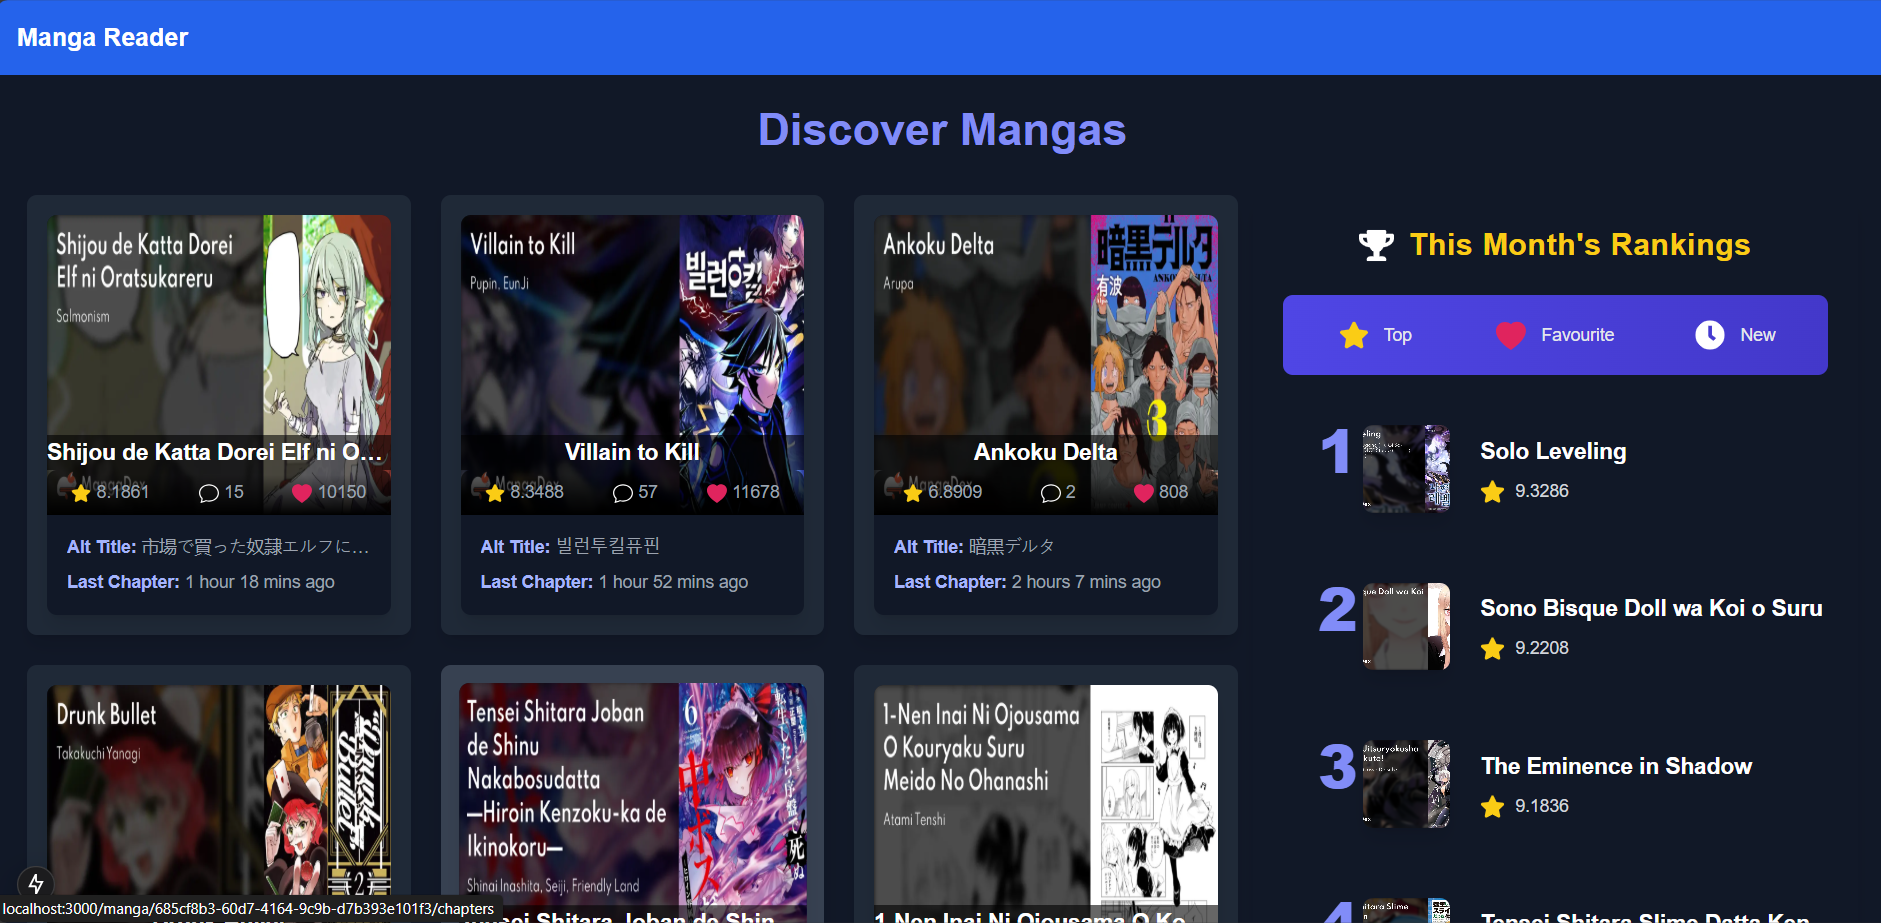
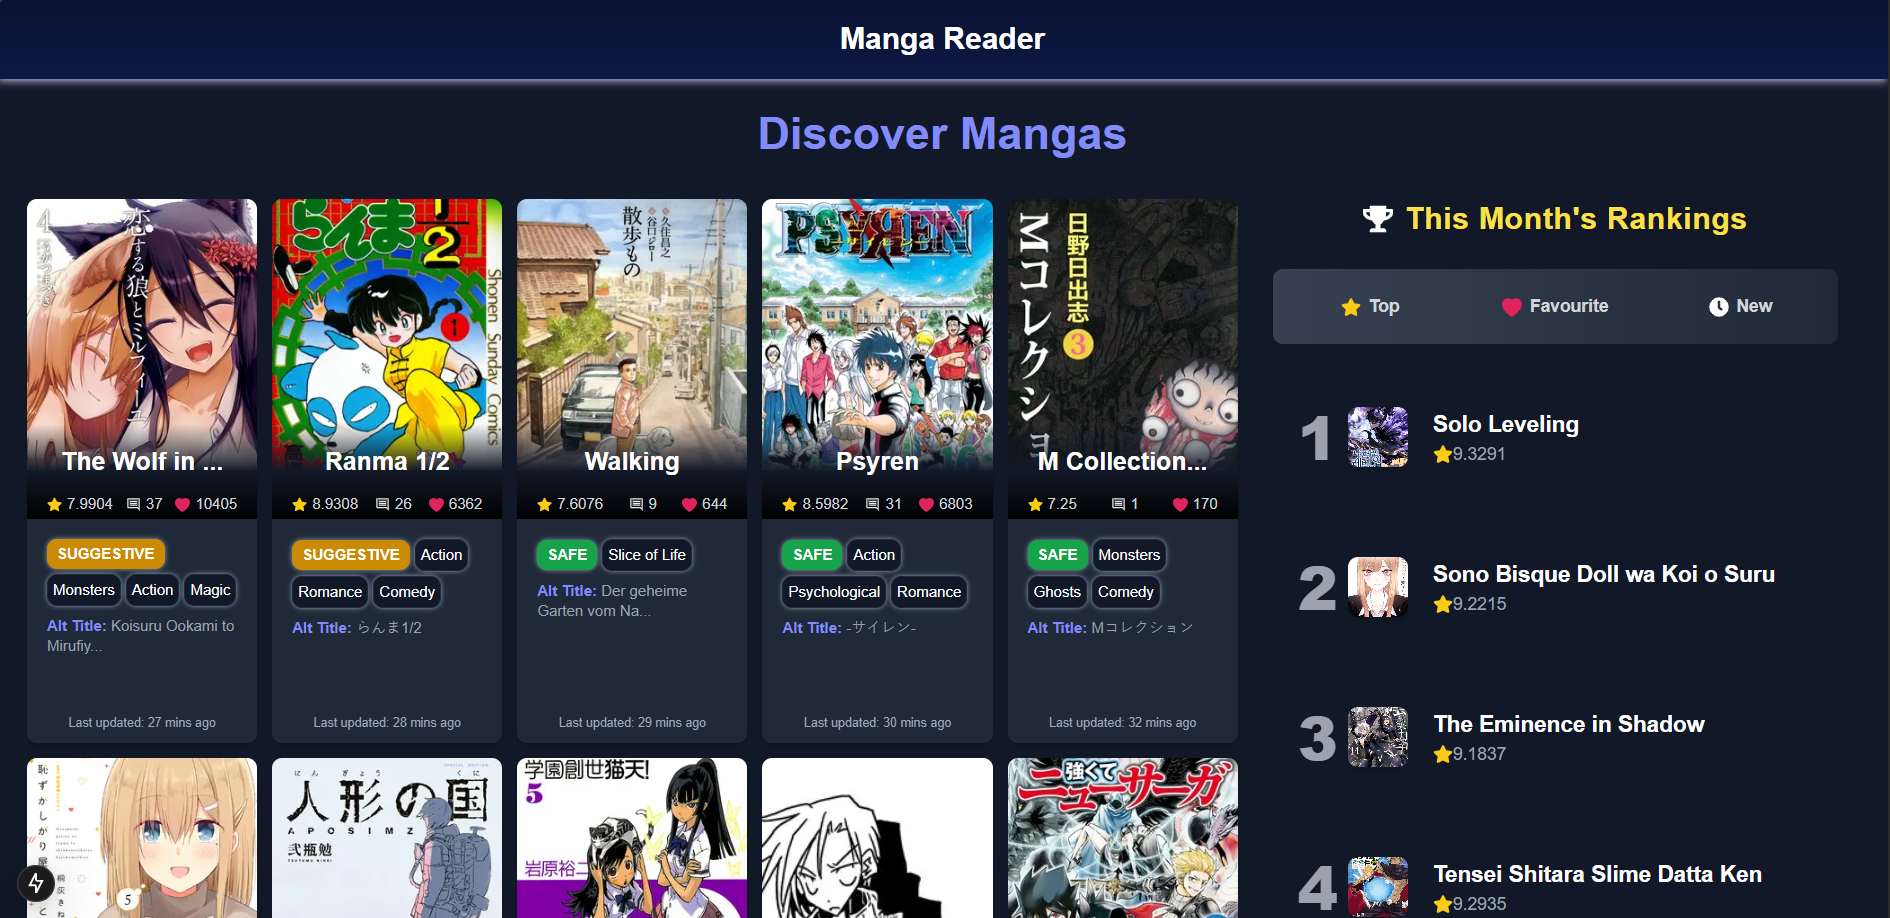
made chnages to the ui of manga list also allowed a lot more of the data to be passed to chapters will do make over of chapters page but dont have time today

diff --git a/app/Components/MangaCard.jsx b/app/Components/MangaCard.jsx
@@ -2,58 +2,94 @@
 import Image from "next/image";
 
 const MangaCard = ({ manga }) => {
+    const getRatingColor = (rating) => {
+        switch (rating) {
+            case "safe":
+                return "bg-green-600";
+            case "suggestive":
+                return "bg-yellow-600";
+            case "erotica":
+                return "bg-red-600";
+            default:
+                return "bg-gray-600";
+        }
+    };
+
     return (
-        <div className="max-w-sm bg-gray-900 hover:scale-[101%] rounded-lg shadow-lg overflow-hidden group">
-            <div className="relative h-60">
+        <>
+            <div className="max-w-xs min-h-[435px] bg-gray-800 rounded-lg shadow-md overflow-hidden transform transition-transform duration-300 hover:scale-[101%] hover:shadow-lg">
+            <div className="relative h-64">
                 <Image
                     src={manga.coverImageUrl || '/placeholder.jpg'}
                     alt={manga.title}
                     fill
-                    className="group-hover:scale-[101%] transition-transform duration-300"
+                    className="object-cover transition-transform duration-500 group-hover:scale-[103%]"
                     placeholder="blur"
                     blurDataURL="/placeholder.jpg"
                 />
-                <div className="absolute bottom-0 left-0 w-full bg-gradient-to-t from-black via-transparent to-transparent">
-                    <h3 className="text-lg font-bold bg-black bg-opacity-60 text-center text-white truncate">
-                        {manga.title}
+                <div className="absolute inset-x-0 bottom-0 bg-gradient-to-t from-black via-gray-900 to-transparent">
+                        <div className="flex w-full flex-col items-center justify-between   p-4 pb-1 ">
+                        <h3 className="text-xl font-bold text-white mb-3 ">
+                        {manga.title.length<12?manga.title:manga.title.slice(0,12)+"..."}
                     </h3>
-                    <div className="flex items-center bg-black bg-opacity-60 p-2 rounded-lg justify-around gap-4">
-                        <div className="flex items-center gap-1 text-sm text-gray-400">
-                            <img src="/star.svg" alt="Rating" className="w-4 h-4" />
-                            <span>{manga?.rating?.rating?.average || "N/A"}</span>
-                        </div>
-                        <div className="flex items-center gap-1 text-sm text-gray-400">
-                            <img src="/comment.svg" alt="Comments" className="w-4 h-4" />
-                            <span>{manga?.rating?.comments?.repliesCount || 0}</span>
-                        </div>
-                        <div className="flex items-center gap-1 text-sm text-gray-400">
-                            <img src="/heart.svg" alt="Likes" className="w-4 h-4" />
-                            <span>{manga?.rating?.follows || 0}</span>
+                            <div className="flex flex-row w-full  items-center justify-between">
+                            <div className="flex items-center gap-1 text-xs text-gray-300">
+                                <img src="/star.svg" alt="Rating" className="w-3 h-3" />
+                                <span>{manga?.rating?.rating?.average || "N/A"}</span>
+                            </div>
+                            <div className="flex items-center gap-1 text-xs text-gray-300">
+                                <img src="/comment.svg" alt="Comments" className="w-3 h-3" />
+                                <span>{manga?.rating?.comments?.repliesCount || 0}</span>
+                            </div>
+                            <div className="flex items-center gap-1 text-xs text-gray-300">
+                                <img src="/heart.svg" alt="Likes" className="w-3 h-3" />
+                                <span>{manga?.rating?.follows || 0}</span>
+                            </div>
+                            </div>
                         </div>
                     </div>
+
+                </div>
+         
+                <div className="p-4 bg-gray-800">
+           
+                    {/* Manga Info */}
+                    <div className="space-y-2">
+                        <div className="flex flex-wrap items-center gap-1">
+                            <span
+                                className={`px-2 py-1 text-xs shadow-[0_0_4px_rgba(0,0,0,1)] shadow-slate-400 font-semibold rounded-lg text-white ${getRatingColor(
+                                    manga.contentRating
+                                )}`}
+                            >
+                                {manga.contentRating.toUpperCase()}
+                            </span>
+                            {manga.tags.slice(0, 3).map((tag) => (
+                                <span
+                                    key={tag}
+                                    className="bg-gray-900 text-nowrap shadow-[0_0_4px_rgba(0,0,0,1)] shadow-slate-400 p-1 rounded-lg border border-gray-800 text-xs transition-colors"
+                                >
+                                    {tag}
+                                </span>
+                            ))}
+                        </div>
+                        <p className="text-xs text-gray-400">
+                            <span className="font-semibold text-indigo-400">Alt Title:</span>  {manga.altTitle.length<25?manga.altTitle:manga.altTitle.slice(0,25)+"..."}
+                        </p>
+                    </div>
+                    {/* Last Updated */}
+                    <p className="text-[10px] absolute left-0 right-0 bottom-2 brightness-150 text-gray-500 mt-2 text-center">
+                        Last updated:{" "}
+                        {(() => {
+                            const timeDifference = Math.floor((new Date() - new Date(manga.updatedAt)) / 60000);
+                            const hours = Math.floor(timeDifference / 60);
+                            const minutes = timeDifference % 60;
+                            return `${hours > 0 ? `${hours} hour${hours > 1 ? "s" : ""}` : ""} ${minutes > 0 ? `${minutes} min${minutes > 1 ? "s" : ""}` : ""
+                                } ago`;
+                        })()}
+                    </p>
                 </div>
             </div>
-            <div className="p-4 space-y-2">
-                <p className="text-sm text-gray-400 truncate">
-                    <span className="font-semibold text-indigo-300">Alt Title:</span> {manga.altTitle || "N/A"}
-                </p>
-                {/* <p className="text-sm text-gray-400 truncate">
-                    <span className="font-semibold text-indigo-300">Author:</span> {manga.authorName || "Unknown"}
-                </p>
-                <p className="text-sm text-gray-400 truncate">
-                    <span className="font-semibold text-indigo-300">Artist:</span> {manga.artistName || "Unknown"}
-                </p> */}
-                <p className="text-sm text-gray-400 truncate">
-                    <span className="font-semibold text-indigo-300">Last Chapter:</span>{" "}
-                    {(() => {
-                        const timeDifference = Math.floor((new Date() - new Date(manga.updatedAt)) / 60000);
-                        const hours = Math.floor(timeDifference / 60);
-                        const minutes = timeDifference % 60;
-                        return `${hours > 0 ? `${hours} hour${hours > 1 ? "s" : ""}` : ""} ${minutes > 0 ? `${minutes} min${minutes > 1 ? "s" : ""}` : ""} ago`;
-                    })()}
-                </p>
-            </div>
-        </div>
+        </>
     );
 };
 

diff --git a/app/Components/AsideComponent.jsx b/app/Components/AsideComponent.jsx
@@ -1,39 +1,37 @@
 import React from 'react';
 
 function AsideComponent({ memoizedMangas }) {
+  console.log(memoizedMangas);
   return (
-    <div className="bg-gray-900 text-white p-6 rounded-lg shadow-lg w-full">
+    <div className="bg-gray-900 text-white px-4 rounded-lg shadow-lg w-full">
       {/* Section Header */}
-      <div className="mb-6 flex items-center justify-between gap-4">
-        <h2 className="flex items-center gap-3 w-full justify-center text-2xl font-semibold text-yellow-400">
-          <img src="/trophy.svg" alt="Trophy" className="w-7 h-7" />
-          <span className="tracking-wide">This Month's Rankings</span>
+      <div className="mb-6 flex items-center justify-between gap-3">
+        <h2 className="flex items-center gap-2.5 w-full justify-center text-2xl font-bold text-yellow-300 tracking-wide">
+          <img src="/trophy.svg" alt="Trophy" className="w-6 h-6" />
+          <span>This Month's Rankings</span>
         </h2>
       </div>
 
       {/* Tab Section */}
-      <div
-        dir="ltr"
-        className="w-full bg-gradient-to-r from-indigo-600 to-indigo-700 p-2 rounded-lg mb-6"
-      >
+      <div className="w-full bg-gradient-to-r from-gray-700 to-gray-800 p-2.5 rounded-lg mb-6">
         <div className="grid grid-cols-3 gap-3">
           {[
-            { 'Top': "star.svg" },
-            { 'Favourite': "heart.svg" },
-            { 'New': "clock.svg" }
+            { 'Top': 'star.svg' },
+            { 'Favourite': 'heart.svg' },
+            { 'New': 'clock.svg' },
           ].map((category, index) => {
-            const categoryName = Object.keys(category)[0]; // Get the category name ('Top', 'Favourite', 'New')
-            const icon = category[categoryName]; // Get the icon for the category
+            const categoryName = Object.keys(category)[0];
+            const icon = category[categoryName];
 
             return (
               <button
                 key={index}
-                className="flex items-center justify-center gap-3 text-sm font-medium text-gray-200 hover:text-white py-3 px-5 rounded-lg transition-all duration-300 ease-in-out transform hover:scale-105 focus:outline-none focus:ring-2 focus:ring-indigo-400"
+                className="flex items-center justify-center gap-1.5 text-sm font-semibold text-gray-300 hover:text-white py-2.5 px-4 rounded-lg transition-all duration-300 transform hover:scale-105 focus:outline-none focus:ring-2 focus:ring-gray-400"
               >
                 <img
                   src={`/${icon}`}
                   alt={categoryName}
-                  className="w-6 h-6"
+                  className="w-4 h-4"
                 />
                 {categoryName}
               </button>
@@ -44,41 +42,43 @@ function AsideComponent({ memoizedMangas }) {
 
       {/* Manga List */}
       <div>
-        <ul className="flex flex-col gap-6">
+        <ul className="flex flex-col gap-5">
           {memoizedMangas.slice(0, 10).map((manga, index) => (
-            <li key={manga.id} className="relative flex w-full gap-6 py-4 items-center">
+            <li
+              key={manga.id}
+              className="relative flex w-full gap-5 py-3.5 items-center transition-all duration-300 hover:bg-gray-800 rounded-lg"
+            >
               {/* Ranking Number */}
-              <div className="absolute left-6 top-0 flex h-[72px] w-10 items-center justify-center text-right">
-                <span className="text-5xl font-extrabold text-indigo-400">{index + 1}</span>
+              <div className="relative left-4 top-0 flex h-[72px] w-10 items-center justify-center text-right">
+                <span className="text-5xl font-extrabold text-gray-400">{index + 1}</span>
               </div>
 
-              <div className="flex items-center gap-6 pl-16">
+              <div className="flex items-center gap-5 pl-12.8">
                 {/* Manga Cover */}
                 <a
-                  href={`/nettrom/truyen-tranh/${manga.id}`}
-                  className="relative w-[70px] h-[70px] overflow-hidden rounded-lg shadow-lg transition-all duration-300 hover:scale-105"
+                  className="relative w-[48px] h-[48px] overflow-hidden rounded-lg shadow-md transition-all duration-300 hover:scale-105"
                   title={manga?.title ?? 'Unavailable'}
                 >
                   <img
                     className="w-full h-full object-cover rounded-lg"
-                    src={`https://og.mangadex.org/og-image/manga/${manga.id}`}
+                    src={manga.coverImageUrl}
                     alt={manga?.title ?? 'No title'}
                   />
                 </a>
 
-                <div className="flex flex-col justify-center gap-2">
+                <div className="flex flex-col justify-center gap-1.6">
                   {/* Manga Title */}
                   <h3>
                     <a
-                      className="font-semibold text-white text-lg hover:text-indigo-500 transition duration-300"
+                      className="font-semibold text-white text-lg hover:text-yellow-300 transition duration-300"
                     >
                       {manga?.title ?? 'Untitled Manga'}
                     </a>
                   </h3>
 
                   {/* Manga Rating */}
-                  <div className="flex items-center gap-2 text-gray-300">
-                    <img src="/star.svg" alt="star" className="w-5 h-5" />
+                  <div className="flex items-center gap-1.6 text-gray-400">
+                    <img src="/star.svg" alt="star" className="w-3.2 h-3.2" />
                     <span className="text-sm">
                       {manga?.rating?.rating?.average ?? '0'}
                     </span>

diff --git a/app/manga-list/page.jsx b/app/manga-list/page.jsx
@@ -15,7 +15,7 @@ export default function MangaList() {
   const [error, setError] = useState(null);
   const router = useRouter();
 
- 
+
   const clearAndSaveToLocalStorage = (key, data) => {
     localStorage.setItem(key, JSON.stringify(data));
   };
@@ -54,18 +54,37 @@ export default function MangaList() {
       mangaList.map(async (manga) => {
         const {
           id,
-          attributes: { title, description, altTitles, contentRating, status, year, updatedAt, tags },
+          attributes: { 
+            title,
+            links,
+            availableTranslatedLanguages,
+            latestUploadedChapter,
+            originalLanguage,
+            description,
+            altTitles,
+            contentRating,
+            status,
+            year,
+            updatedAt,
+            tags
+          },
           relationships,
         } = manga;
 
-        const coverArt = relationships.find((rel) => rel.type === 'cover_art');
-        const coverImageUrl = coverArt ? `https://og.mangadex.org/og-image/manga/${id}` : '';
-
-        const author = relationships.find((rel) => rel.type === 'author');
-        const artist = relationships.find((rel) => rel.type === 'artist');
-        const authorName = author?.attributes?.name || 'Unknown Author';
-        const artistName = artist?.attributes?.name || 'Unknown Artist';
-
+        const grouped = relationships.reduce((acc, rel) => {
+          if (!acc[rel.type]) acc[rel.type] = [];
+          acc[rel.type].push(rel);
+          return acc;
+        }, {});
+        
+        // Extract specific data
+        const coverArt = grouped.cover_art?.[0]?.attributes?.fileName;
+        // const images = coverArt ? `https://og.mangadex.org/og-image/manga/${id}` : '';
+        const coverImageUrl=`https://mangadex.org/covers/${id}/${coverArt}.256.jpg`
+        const authorName = grouped.author;
+        const artistName = grouped.artist;
+        const creatorName = grouped.creator??"N/A";
+        const MangaStoryType = grouped.manga??"N/A";
         let rating = 0;
         try {
           const ratingResponse = await fetch(`https://api.mangadex.org/statistics/manga/${id}`);
@@ -91,6 +110,12 @@ export default function MangaList() {
           authorName,
           artistName,
           rating,
+          links,
+          creatorName,
+          MangaStoryType,
+          availableTranslatedLanguages,
+          latestUploadedChapter,
+          originalLanguage,
         };
       })
     );
@@ -116,7 +141,6 @@ export default function MangaList() {
 
     checkLastRefresh();
   }, [page]);
-
   useEffect(() => {
     (async () => {
       const processed = await processMangaData(mangas);
@@ -134,21 +158,21 @@ export default function MangaList() {
       <h1 className="text-4xl font-bold text-center mb-8 text-indigo-400">Discover Mangas</h1>
       {error && <div className="text-center text-red-500 mb-4">{error}</div>}
       <div className="flex flex-row justify-between items-start gap-3">
-        <div className="grid w-8/12 grid-cols-1 sm:grid-cols-2 md:grid-cols-4 lg:grid-cols-3 gap-6">
+        <div className="grid w-8/12 grid-cols-1 sm:grid-cols-2 md:grid-cols-4 lg:grid-cols-5 gap-3">
           {processedLatestMangas.map((manga) => (
             <div
-            key={manga.id}
-            onClick={() =>
-              router.push(
-                `/manga/${manga.id}/chapters?manga=${encodeURIComponent(
-                  JSON.stringify(manga)
-                )}`
-              )
-            }            
-            className="group p-4 bg-gray-800 shadow-lg rounded-lg hover:shadow-xl transition cursor-pointer hover:bg-gray-700"
-          >
-            <MangaCard id={manga.id} manga={manga} />
-          </div>
+              key={manga.id}
+              onClick={() =>
+                router.push(
+                  `/manga/${manga.id}/chapters?manga=${encodeURIComponent(
+                    JSON.stringify(manga)
+                  )}`
+                )
+              }
+              className="group cursor-pointer"
+            >
+              <MangaCard id={manga.id} manga={manga} />
+            </div>
           ))}
         </div>
         <div className='w-4/12'>

diff --git a/next.config.ts b/next.config.ts
@@ -6,7 +6,8 @@ const nextConfig: NextConfig = {
       'cmdxd98sb0x3yprd.mangadex.network',
       'uploads.mangadex.org',
       'api.mangadex.org',
-      'og.mangadex.org'
+      'og.mangadex.org',
+      'mangadex.org',
     ],
   },
 };
